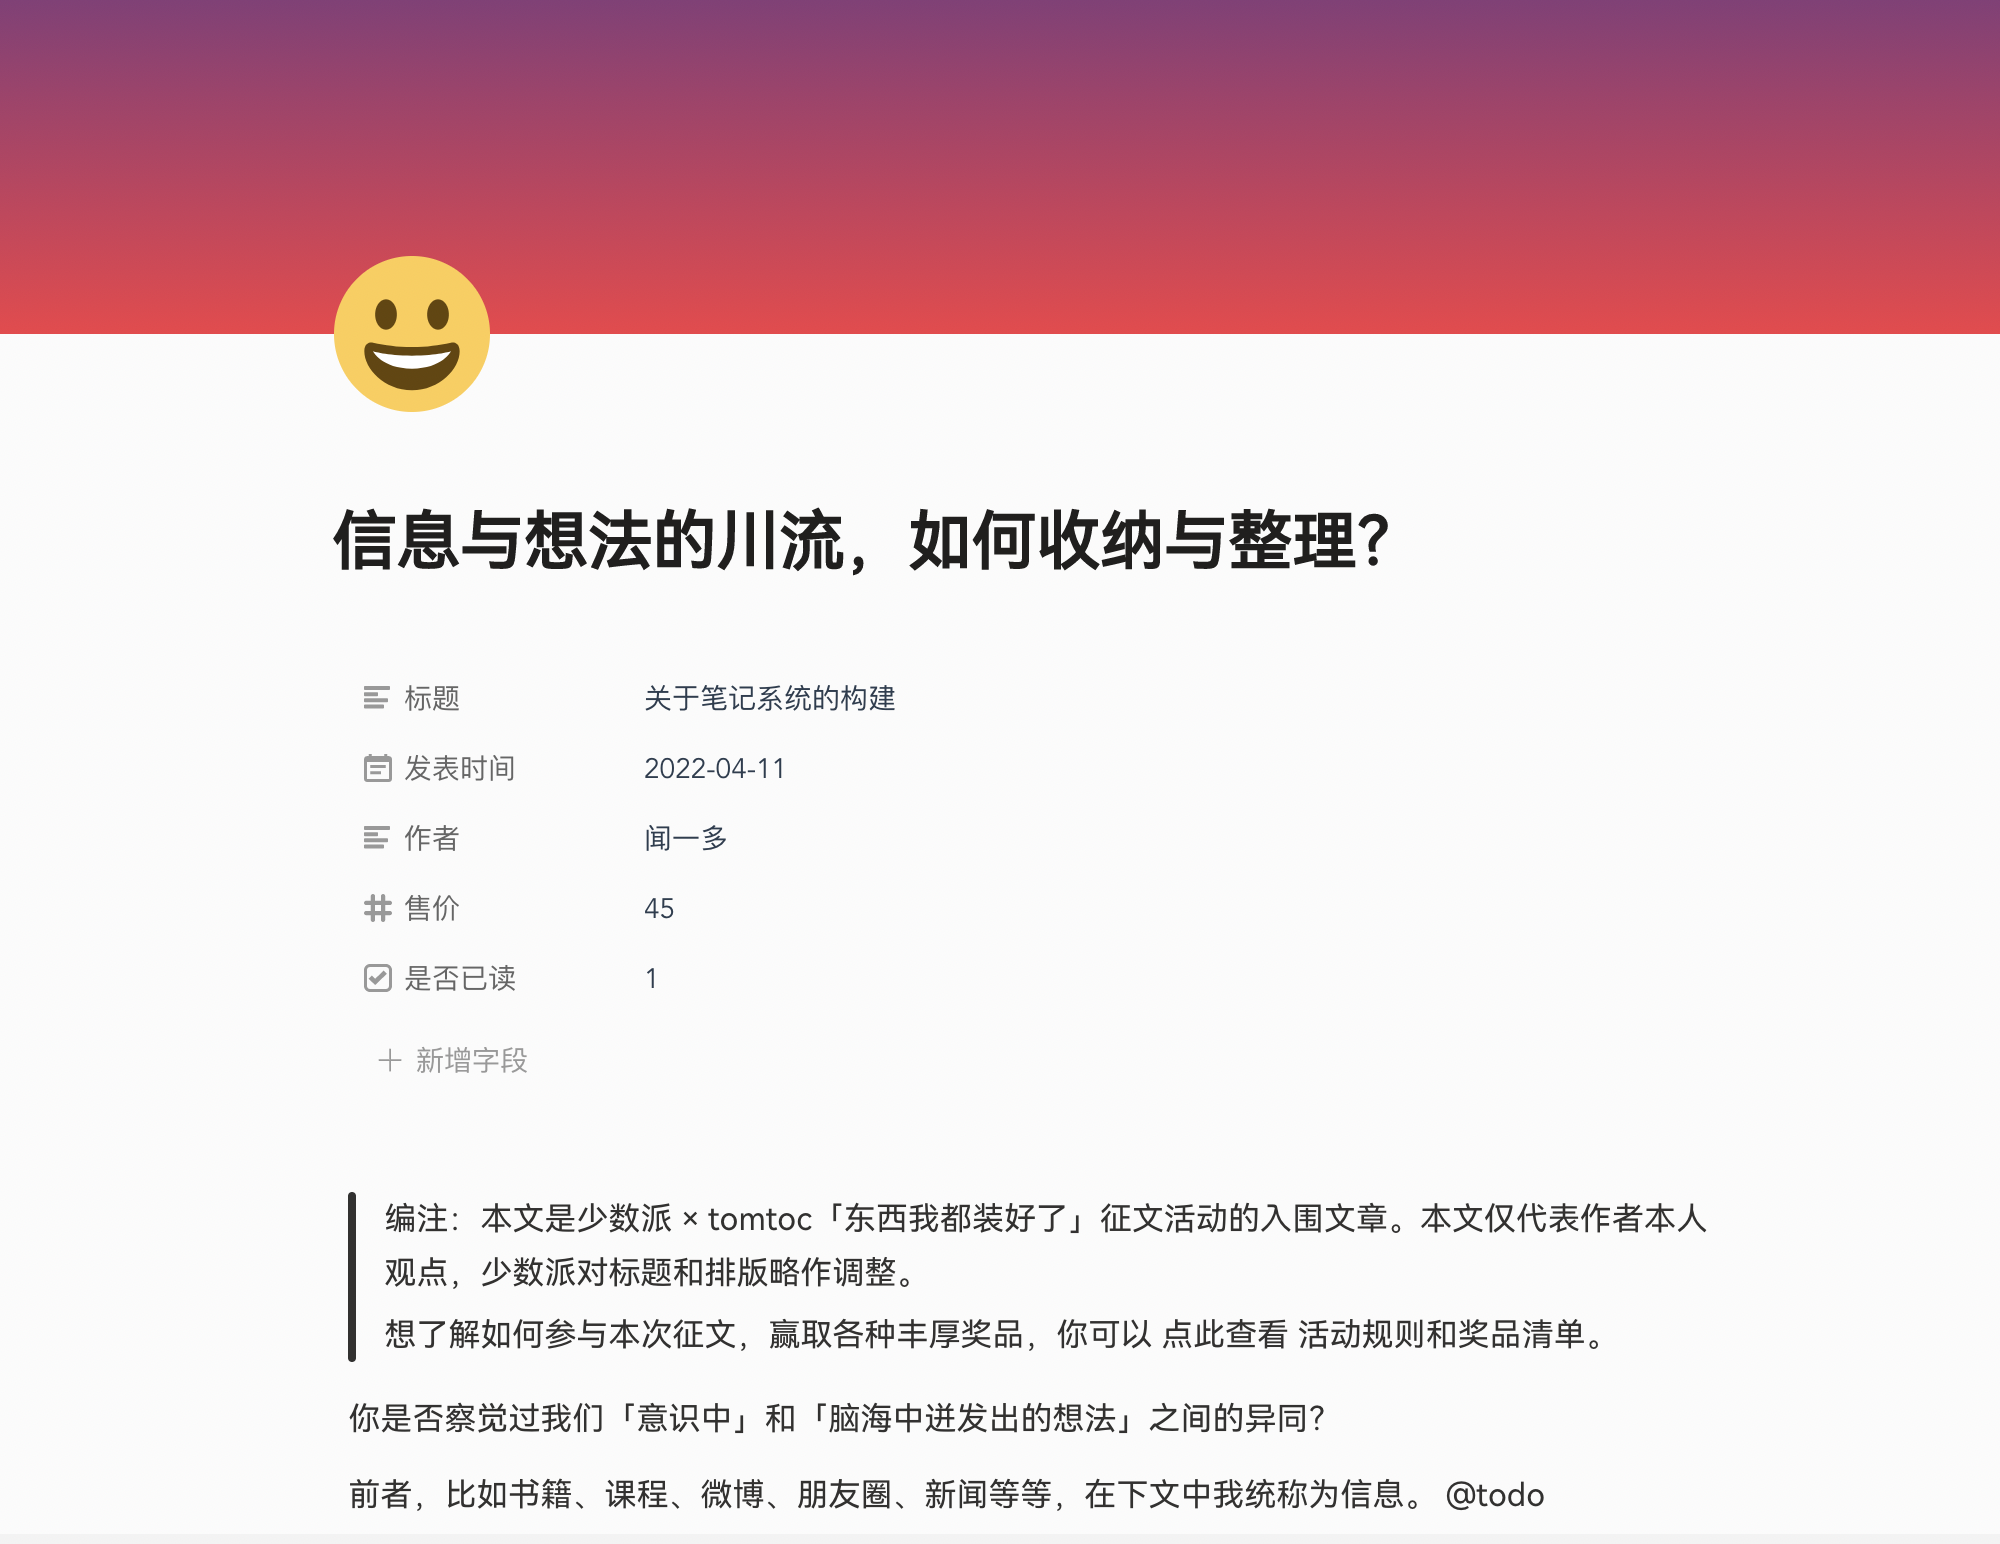
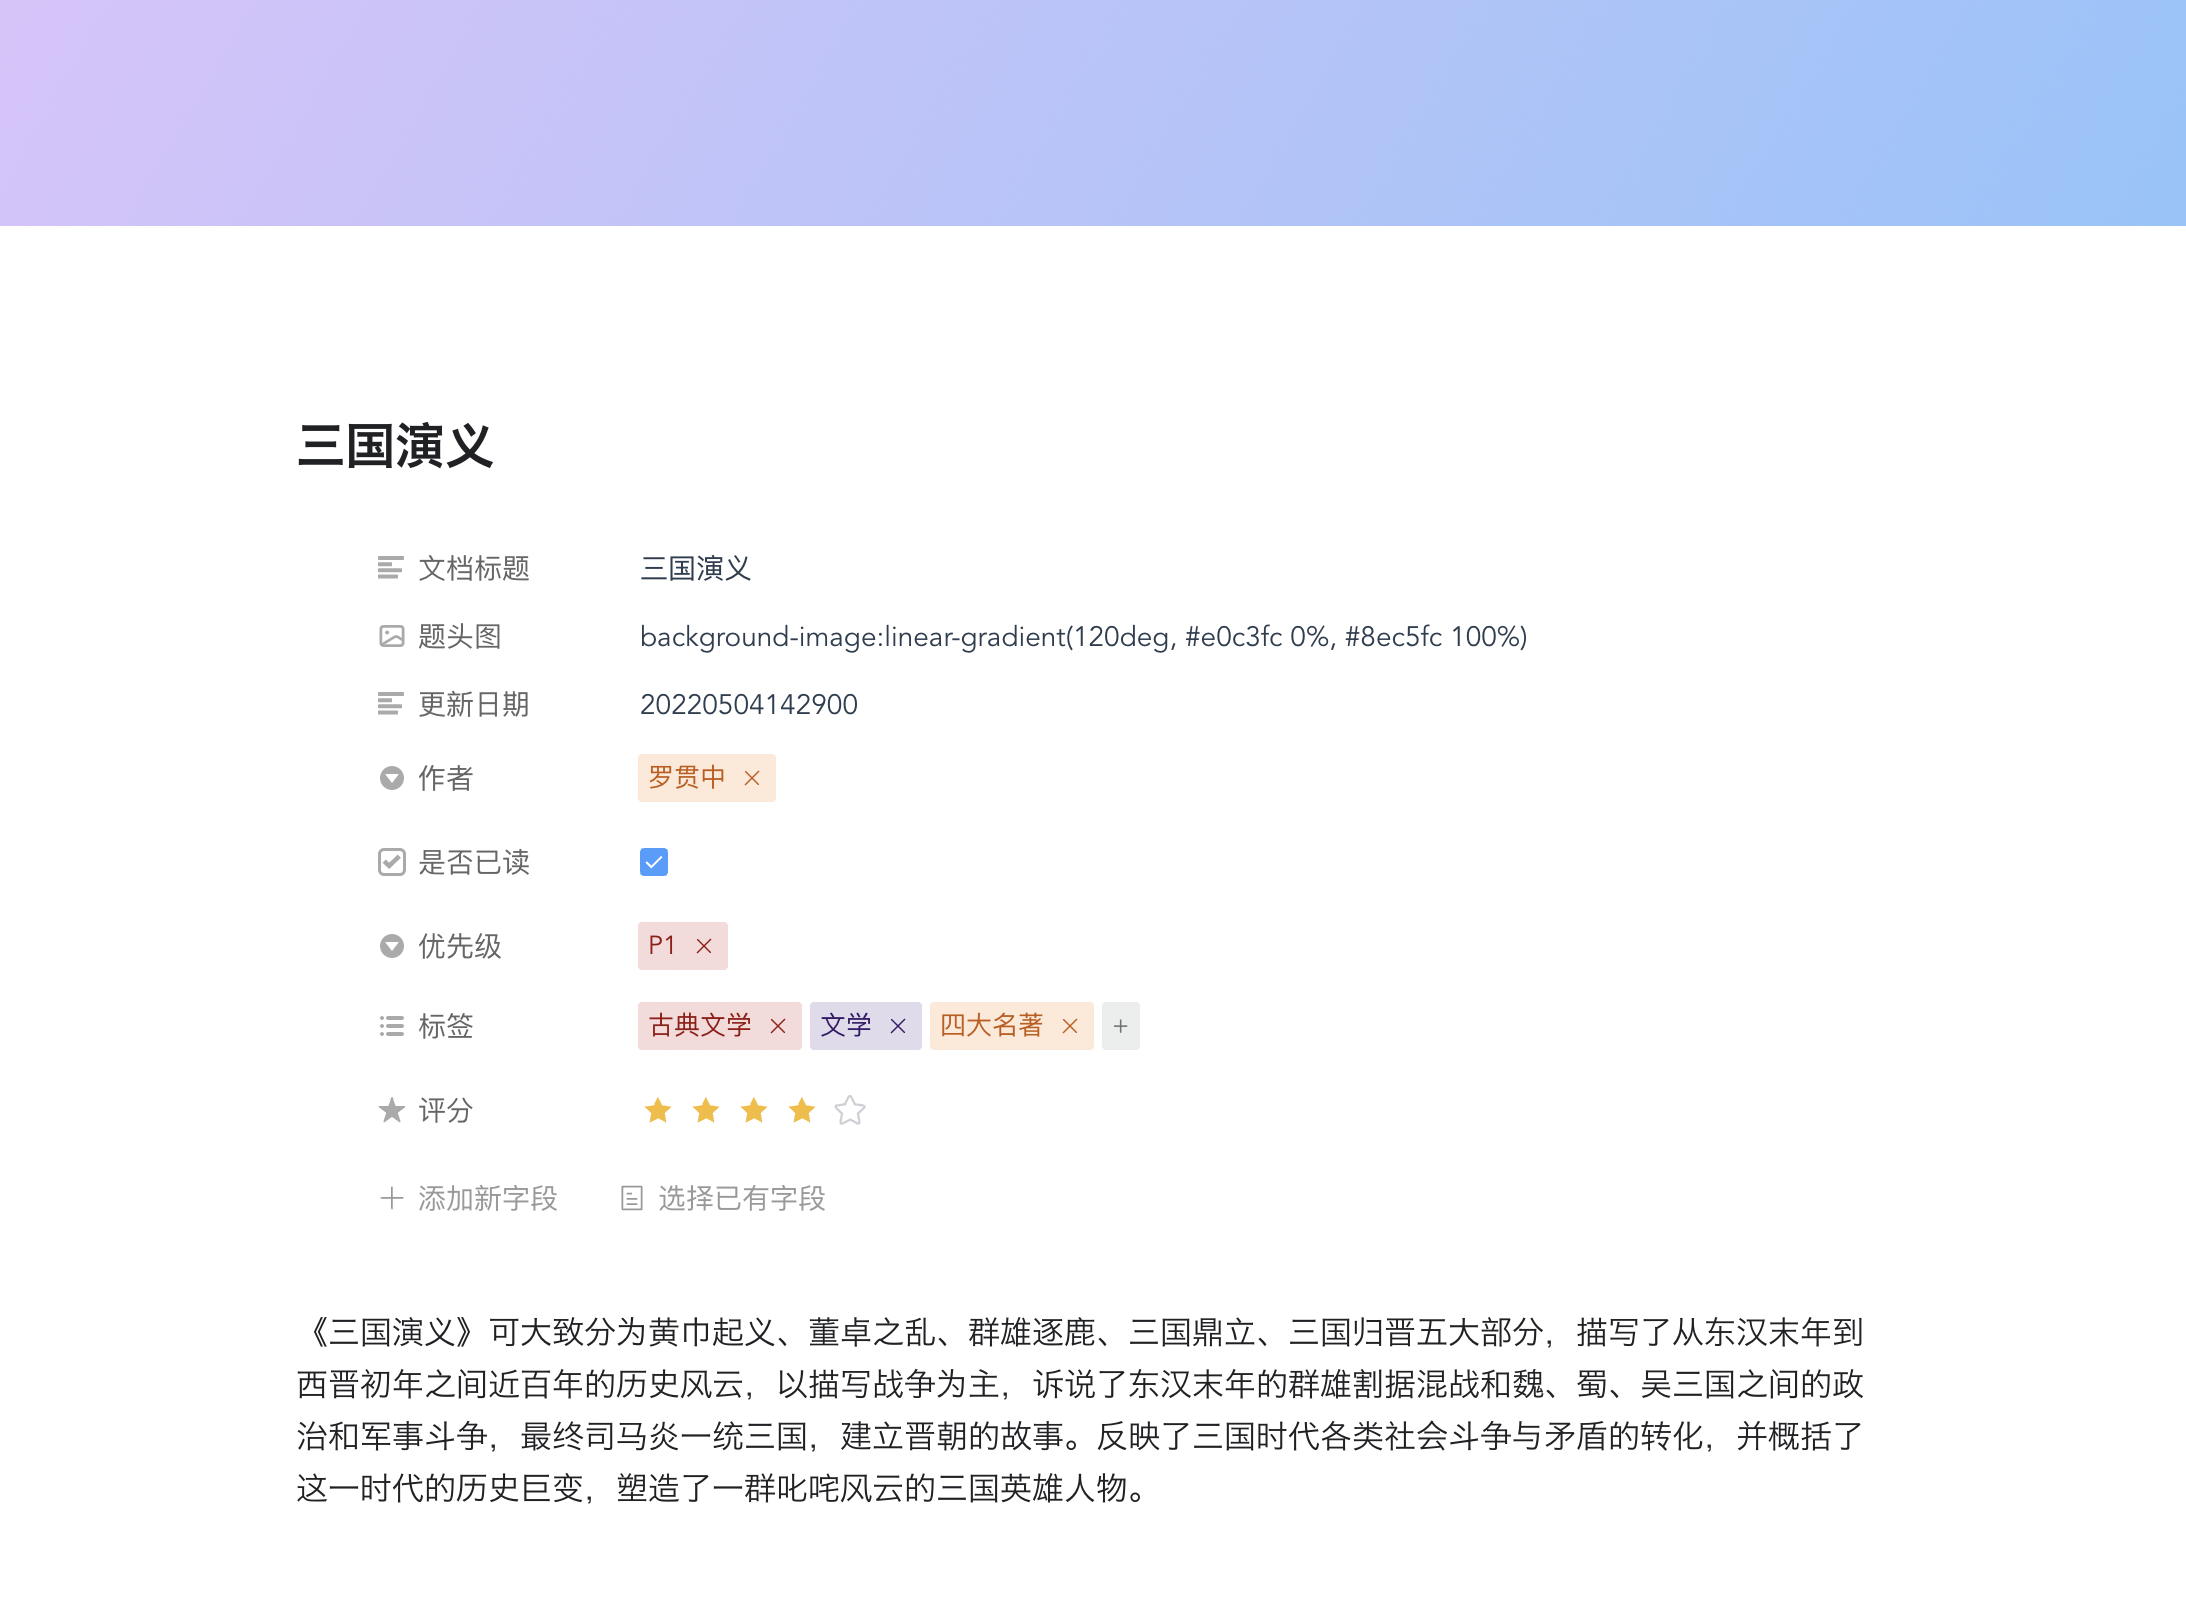
add:note-attrs preview

diff --git a/README.md b/README.md
@@ -4,6 +4,14 @@
 
 如果您需要订阅思源笔记，欢迎使用我的推荐码 `4EY48YJ`
 
+
+## Note Attrs
+
+类似 Notion，在文档页面内展示文档属性，更加便捷的对属性进行编辑。
+
+结合 Note Views 使用更佳。
+
+![preview](https://raw.githubusercontent.com/langzhou/siyuan-note/main/widgets/note-attrs/preview/note-attrs.png)
 ## Note Views v3.0
 
 Note Views v3.0筹备中，更多预览图详见[README.md](https://github.com/langzhou/siyuan-note/tree/main/widgets/note-views-v3)
